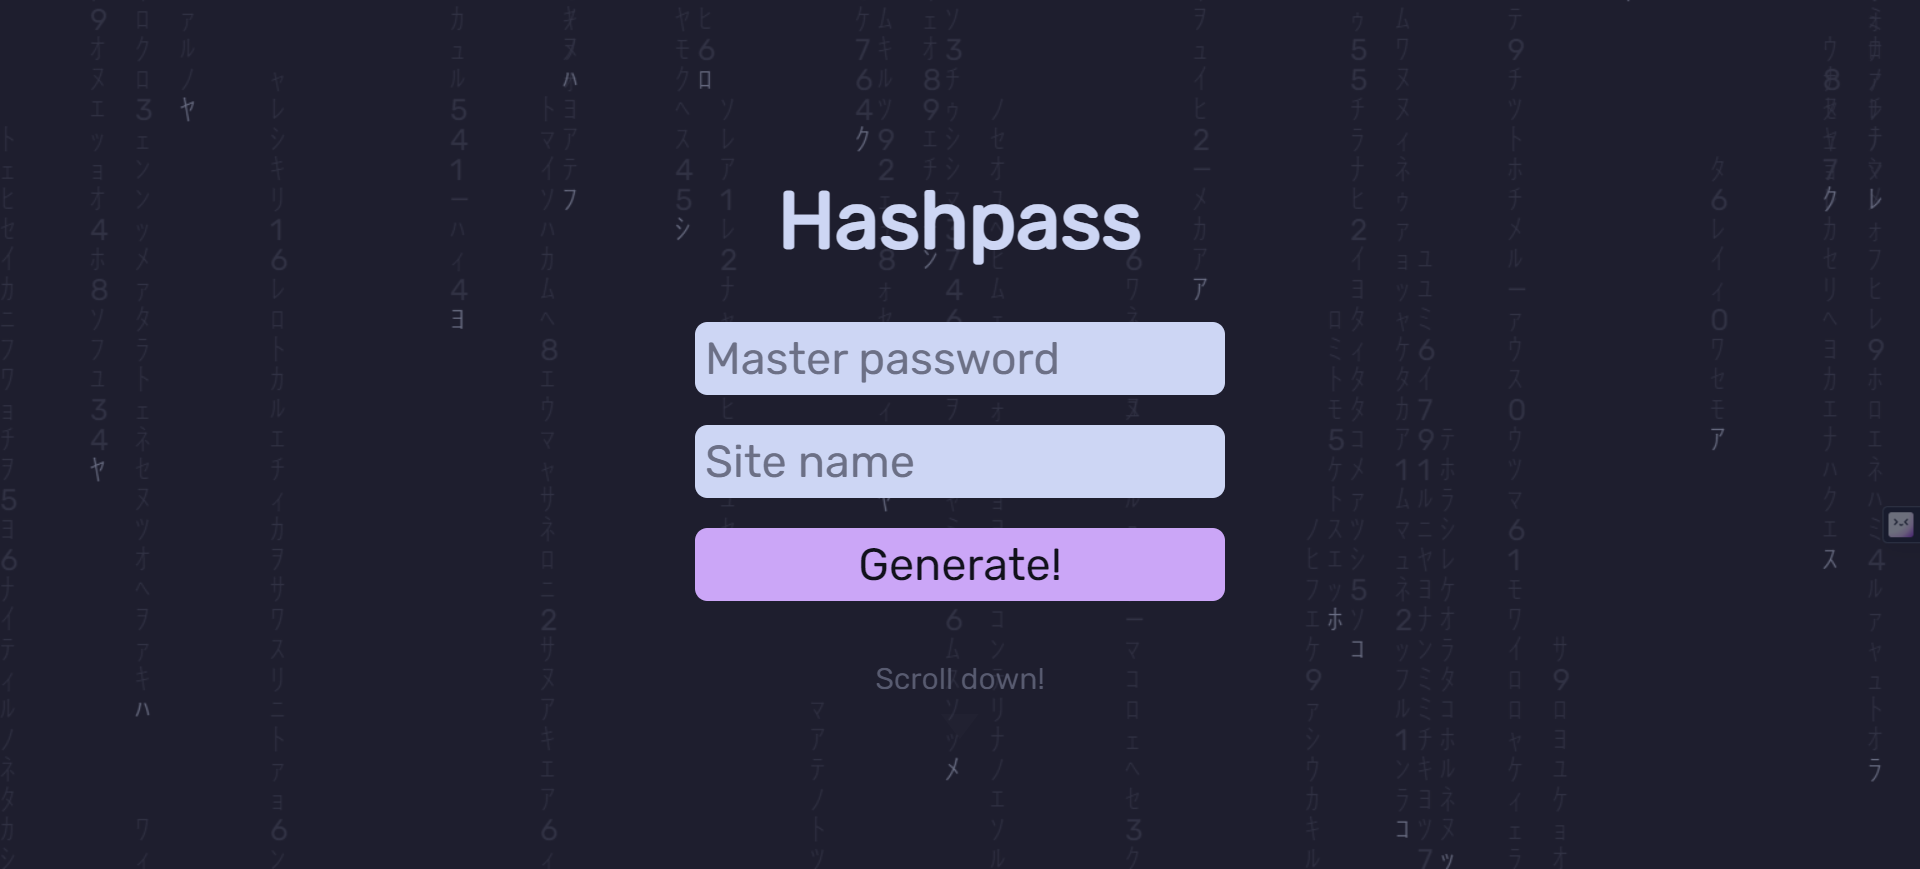
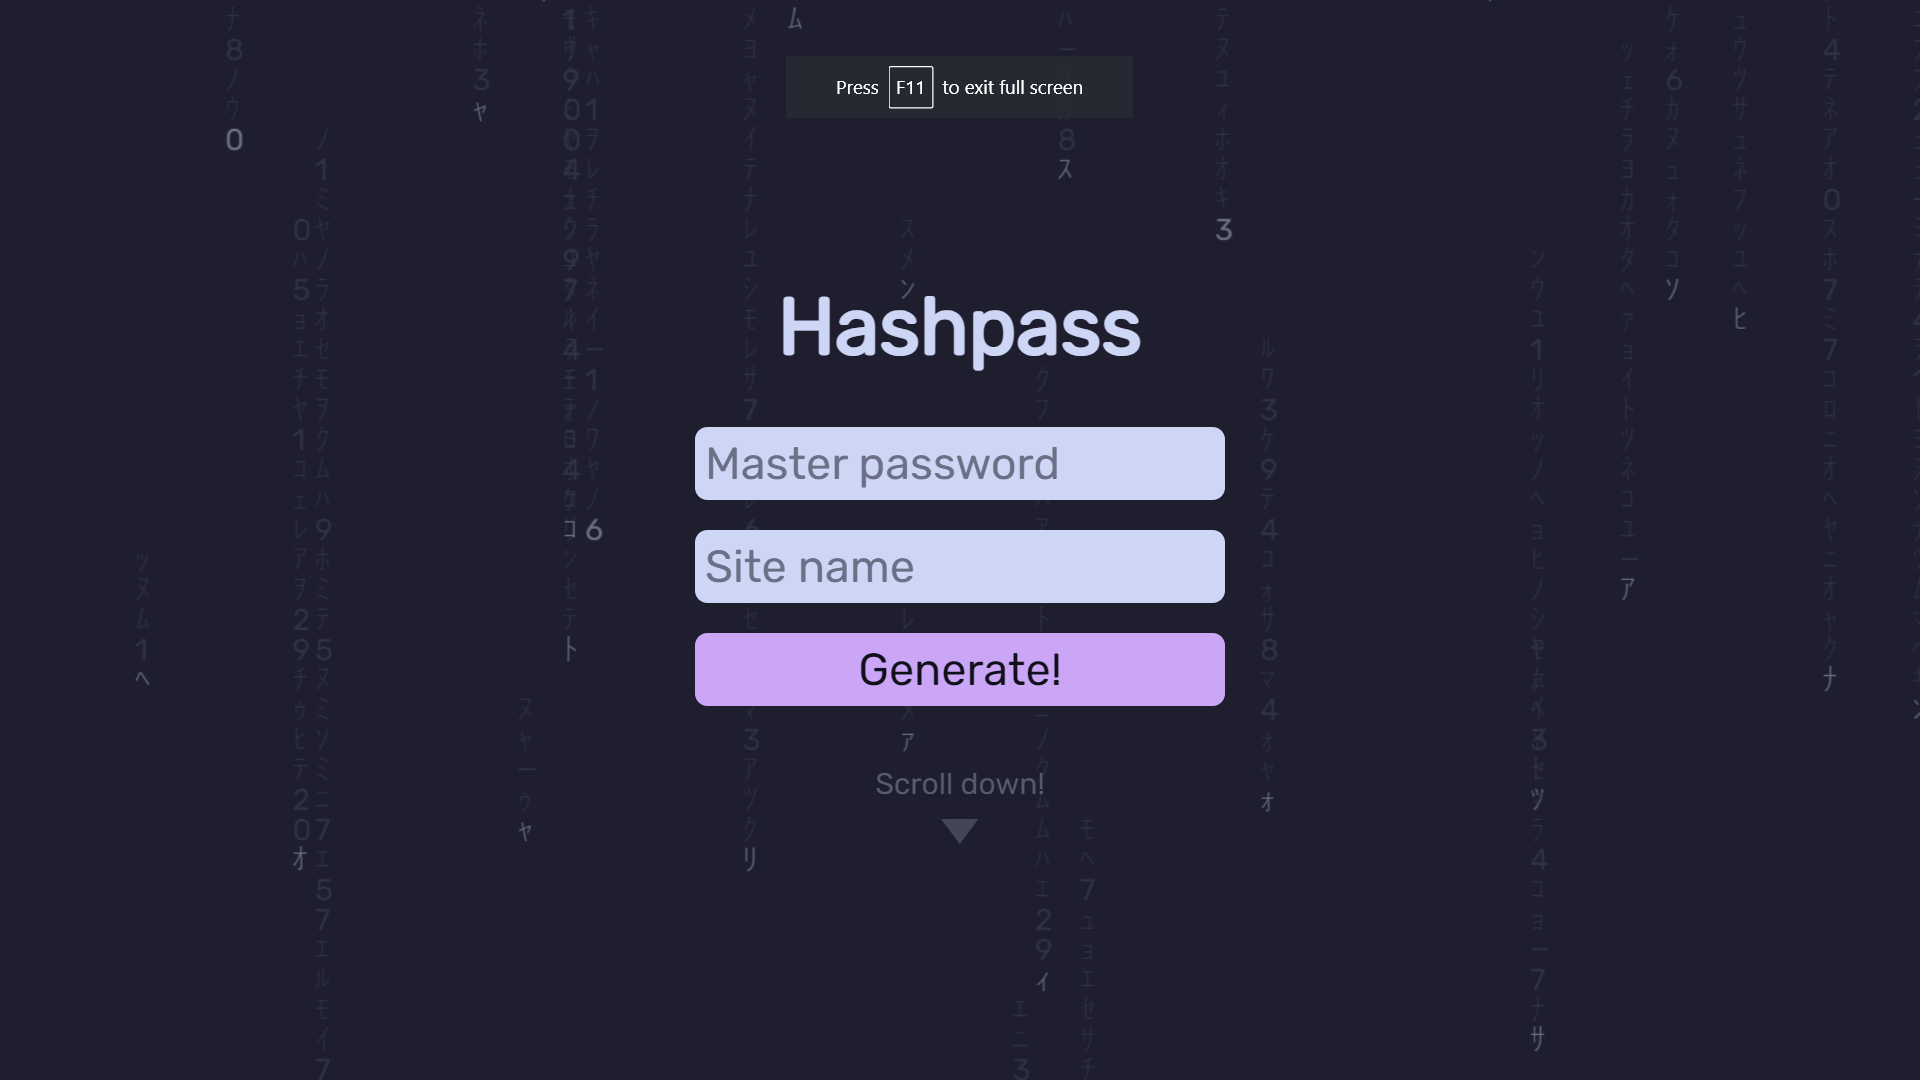
commit

diff --git a/src/components/Portfolio/Portfolio.jsx b/src/components/Portfolio/Portfolio.jsx
@@ -23,13 +23,12 @@ const Portfolio = () => {
     { 
       name : "3D-Simple-Harmonic-Motion-Visualization",
       deployedLink: "https://shm.ranjansharma.info.np/",
-      image: require('../../assets/starship.gif'),
+      image: require('../../assets/shm.gif'),
       fadeDuration:'1000',
       description: 'This project presents an interactive 3D visualization tool for Simple Harmonic Motion (SHM), designed to bring complex physics concepts to life. The application enables users to explore the nuances of SHM through a dynamic and engaging virtual environment.',
       toolsUsed: ['P5JS','WebGL','Js','HTML','CSS','JS library']
     
     },
-
     { 
       name : "Rust-Ai-Car_Driving",
       deployedLink: "https://youtu.be/BzCkSsQmezE?si=9nDR2ga73ZizcMFH",
@@ -42,27 +41,26 @@ const Portfolio = () => {
     {
       name:"Discord Music Bot",
       deployedLink: "https://discord.com/api/oauth2/authorize?client_id=1195042358371291327&permissions=8&scope=bot",
-      image: require('../../assets/bot.png'),
+      image: require('../../assets/bot (1).png'),
       fadeDuration:'1300',
-      description:"A web application designed to allow users to get directions and uses real-time traffic information to find the best route to your destination.",
-      toolsUsed: ['Mapbox API','tailwind','HTML/CSS','localStorage']
+      description:"The Discord Music Bot is a dynamic and user-friendly bot designed for Discord servers, developed using TypeScript. It enhances the music listening experience on Discord by allowing users to play music directly from YouTube and Spotify. This bot is a perfect integration for communities that enjoy sharing music and playlists.",
+      toolsUsed: ['TypeScript','Discord API','Youtube API','Spotify API']
     },
     {
       name: "Hashpass",
       deployedLink: "https://hashpass.ranjansharma.info.np/",
       image: require('../../assets/hash.png'),
       fadeDuration:'1500',
-      description:"A full stack web application that allows users to buy cars, book test drives and so much more",
-      toolsUsed: ['Handlebars','mySQl','NodeJs','Express','Bootstrap','sequelize']
+      description:"HashPass is a cutting-edge web application designed to enhance cybersecurity measures by providing robust password hashing services. This tool is tailored for both individuals and organizations who prioritize the security of their digital accounts.",
+      toolsUsed: ['Rust','HTML','CSS','JS','TypeScript']
     },
-    
     {
       name:"Netflix-Clone",
       deployedLink: "https://netflix-ranjansharma.vercel.app/browse",
       image: require('../../assets/netflix.png'),
       fadeDuration:'1500',
-      description:"A Progressive web application that allows users to create notes or code snippets with or without an internet connection so they can reliably retrieve them for later use",
-      toolsUsed: ['indexDb','HTML/CSS','localStorage','Webpack']
+      description:"like experience. This project showcases an intuitive interface for browsing and streaming a wide range of movies and TV shows.",
+      toolsUsed: ['Node.js' , 'Express.js','HTML/CSS','MongoDB','Vercel']
     }
   ]
 
@@ -78,6 +76,7 @@ const Portfolio = () => {
     <section id='portfolio'>
         <h5 data-aos="fade-up" data-aos-anchor=".portfolio__container"  data-aos-duration='700'>My most recent projects</h5>
         <h2 data-aos="fade-up" data-aos-anchor=".portfolio__container"  data-aos-duration='900'>My Portfolio</h2>
+        <h5 data-aos="fade-up" data-aos-anchor=".portfolio__container"  data-aos-duration='900'>Click on projects to learn more</h5>
 
         <div className="container portfolio__container">
 